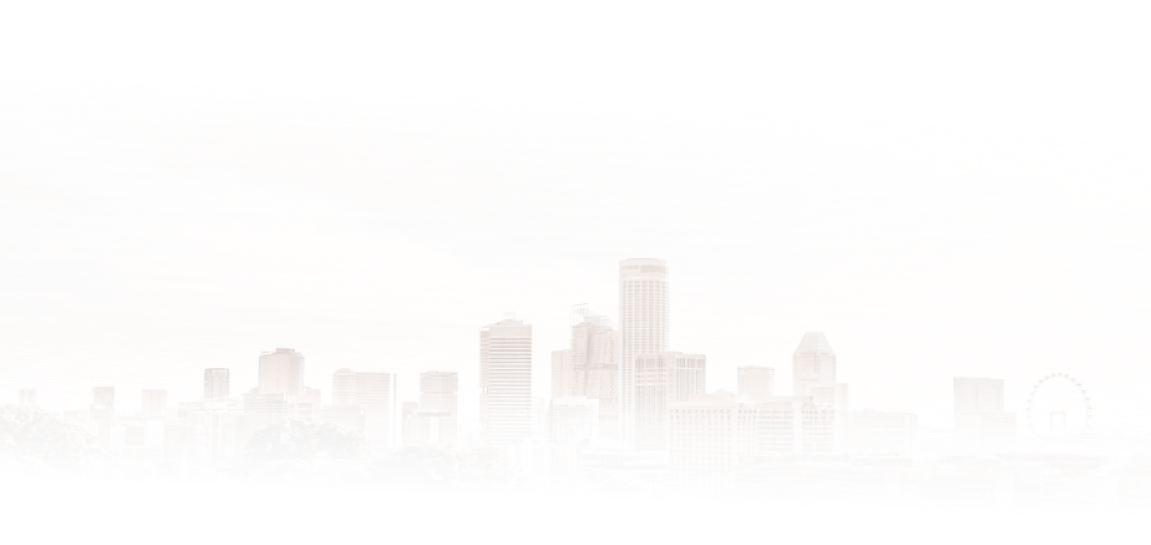
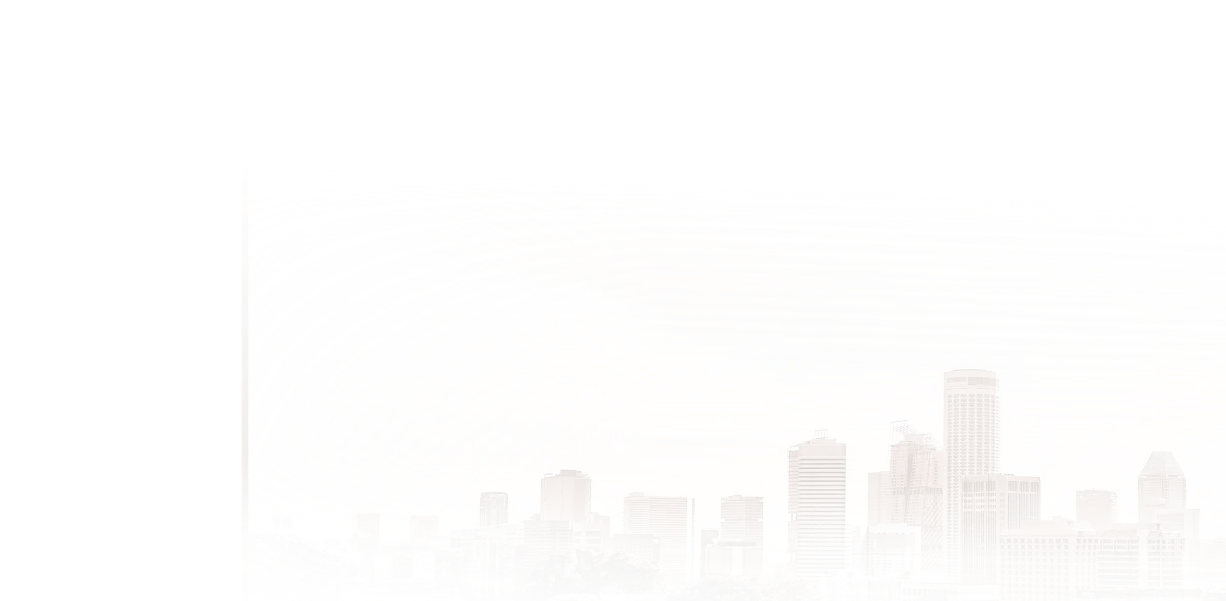
Refactor styles and structure in detail-eb5 project components for improved readability and consistency

diff --git a/src/sections/detail-eb5/project-overview/index.tsx b/src/sections/detail-eb5/project-overview/index.tsx
@@ -21,8 +21,8 @@ const InfoItem = ({image, title, value}: InfoItemProps) => {
         height={300}
         className='absolute inset-0 h-full w-full object-cover'
       />
-      <div className='z-10 flex w-full flex-row items-center space-x-4 space-y-0 rounded-[0.5rem] border border-black/10 bg-white/65 p-4 shadow-[0px_-1px_20px_0px_rgba(0,0,0,0.04)] backdrop-blur-[20px] xsm:flex-col xsm:space-x-0 xsm:space-y-2 xsm:p-2'>
-        <div className='flex h-[3.75rem] w-[3.75rem] items-center justify-center rounded-[0.5rem] border border-white/25 bg-[linear-gradient(95deg,#95502F_-4.54%,#F5C178_95.42%)] xsm:h-5 xsm:w-5 xsm:border-none xsm:bg-none'>
+      <div className='z-10 flex w-full flex-row items-center space-x-4 space-y-0 rounded-[0.5rem] border border-black/10 bg-white/65 p-4 shadow-[0px_-1px_20px_0px_rgba(0,0,0,0.04)] backdrop-blur-[20px] xsm:flex-col xsm:items-start xsm:space-x-0 xsm:space-y-2 xsm:p-2'>
+        <div className='flex h-[3.75rem] w-[3.75rem] items-center justify-center rounded-[0.5rem] border border-white/25 bg-[linear-gradient(95deg,#95502F_-4.54%,#F5C178_95.42%)] bg-origin-border xsm:h-5 xsm:w-5 xsm:border-none xsm:bg-none'>
           <ImageV2
             alt={title}
             src='/icons/detail-eb5/check.svg'
@@ -32,7 +32,7 @@ const InfoItem = ({image, title, value}: InfoItemProps) => {
           />
         </div>
         <div className='flex-col space-y-1'>
-          <p className='sub-14 xsm:sub-12 font-medium text-greyscaletext-400 xsm:font-normal'>
+          <p className='sub-14 xsm:sub-12 font-medium tracking-[-0.00875rem] text-greyscaletext-400 xsm:font-normal'>
             {title}
           </p>
           <p className='heading3-s font-semibold text-Phase-1-Brown xsm:text-sm xsm:leading-[1.4] xsm:tracking-[-0.0175rem]'>
@@ -123,7 +123,7 @@ const ProjectOverview = ({
             />
           ))}
         </div>
-        <div className='flex w-[47.6875rem] flex-col space-y-6 xsm:w-full xsm:space-y-4'>
+        <div className='z-10 flex w-[47.6875rem] flex-col space-y-6 xsm:w-full xsm:space-y-4'>
           <h1 className='heading1 font-optima font-semibold text-Phase-1-Brown'>
             {title}
           </h1>
@@ -134,9 +134,9 @@ const ProjectOverview = ({
         <ImageV2
           src='/imgs/detail-eb5/bg.webp'
           alt='bg'
-          width={1200}
+          width={1600}
           height={800}
-          className='absolute -bottom-[10%] left-0 right-0 w-full object-cover xsm:hidden'
+          className='absolute -bottom-10 left-0 w-[100rem] object-cover opacity-80 xsm:hidden'
         />
       </div>
       <ProjectSlider images={images} />

diff --git a/src/sections/detail-eb5/project-location/index.tsx b/src/sections/detail-eb5/project-location/index.tsx
@@ -10,7 +10,7 @@ type LocationItem = {
 
 const LocationItem = ({description, image, title}: LocationItem) => {
   return (
-    <div className='shadow-SHADOW relative flex items-start space-x-6 overflow-hidden rounded-3xl bg-white p-6'>
+    <div className='relative flex items-start space-x-6 overflow-hidden rounded-3xl bg-white p-6 shadow-SHADOW'>
       <div className='absolute -top-[0.02088rem] right-0 h-[7.5rem] w-[7.5rem] rotate-90 transform bg-[radial-gradient(95.02%_94.67%_at_-6.67%_-10.42%,#F5C178_34.9%,rgba(255,255,255,0.00)_100%)] opacity-80' />
       <ImageV2
         src={image}
@@ -32,7 +32,7 @@ const LocationItem = ({description, image, title}: LocationItem) => {
 
 const LocationItemMobile = ({description, image, title}: LocationItem) => {
   return (
-    <div className='shadow-SHADOW flex flex-col space-y-4 rounded-3xl bg-white p-4'>
+    <div className='flex flex-col space-y-4 rounded-3xl bg-white p-4 shadow-SHADOW'>
       <ImageV2
         src={image}
         alt='location'
@@ -77,13 +77,13 @@ const ProjectLocation = ({
         <h1 className='heading1 font-optima font-semibold text-Phase-1-Brown'>
           {title}
         </h1>
-        <p className='body16 xsm:body-14 mt-[0.875rem] text-greyscaletext-body'>
+        <p className='body16-m xsm:body-14 mt-[0.875rem] text-greyscaletext-body'>
           {description}
         </p>
         <h4 className='heading4 mt-14 font-optima font-semibold text-Phase-1-Brown xsm:mt-8 xsm:text-[1.125rem] xsm:leading-[1.4] xsm:tracking-[-0.0225rem]'>
           {subTitle}
         </h4>
-        <p className='body16 xsm:body-14 mt-4 text-greyscaletext-body'>
+        <p className='body16-m xsm:body-14 mt-4 text-greyscaletext-body'>
           {subDescription}
         </p>
         <div className='mt-6 flex flex-col space-y-8 xsm:mt-4 xsm:space-y-4'>
@@ -105,7 +105,7 @@ const ProjectLocation = ({
           })}
         </div>
       </div>
-      <div className='h-[49.25rem] w-[47.825rem] py-20 xsm:aspect-square xsm:h-auto xsm:w-full xsm:py-0'>
+      <div className='sticky top-8 h-[49.25rem] w-[47.825rem] py-20 xsm:static xsm:aspect-square xsm:h-auto xsm:w-full xsm:py-0'>
         <ImageV2
           src={locationImage}
           alt='location'

diff --git a/src/sections/detail-eb5/project-investor-developer/index.tsx b/src/sections/detail-eb5/project-investor-developer/index.tsx
@@ -67,7 +67,7 @@ const ProjectInvestorDeveloper = ({
                 <h3 className='sub-24S xsm:body16-s font-semibold text-white'>
                   {investor.title}
                 </h3>
-                <p className='sub-14 xsm:sub-12-m mt-1 font-medium text-white/85'>
+                <p className='body-14 xsm:sub-12-m mt-1 font-medium text-white/85'>
                   Chủ đầu tư dự án
                 </p>
               </div>
@@ -135,13 +135,13 @@ const ProjectInvestorDeveloper = ({
           >
             <TabsList className='grid h-auto w-full grid-cols-2 p-3 xsm:p-2'>
               <TabsTrigger
-                className='heading3-s data-[state=active]:shadow-SHADOW rounded-2xl py-5 font-semibold text-[#12121261] flex-center data-[state=active]:bg-white data-[state=active]:text-Phase-1-Brown xsm:py-4'
+                className='heading3-s rounded-2xl py-5 font-semibold text-[#12121261] flex-center data-[state=active]:bg-white data-[state=active]:text-Phase-1-Brown data-[state=active]:shadow-SHADOW xsm:py-4 xsm:text-sm xsm:leading-[1.4] xsm:tracking-[-0.0175rem]'
                 value='investor'
               >
                 Chủ đầu tư dự án
               </TabsTrigger>
               <TabsTrigger
-                className='heading3-s data-[state=active]:shadow-SHADOW rounded-2xl py-5 font-semibold text-[#12121261] flex-center data-[state=active]:bg-white data-[state=active]:text-Phase-1-Brown xsm:py-4'
+                className='heading3-s rounded-2xl py-5 font-semibold text-[#12121261] flex-center data-[state=active]:bg-white data-[state=active]:text-Phase-1-Brown data-[state=active]:shadow-SHADOW xsm:py-4 xsm:text-sm xsm:leading-[1.4] xsm:tracking-[-0.0175rem]'
                 value='developer'
               >
                 Đơn vị phát triển dự án
